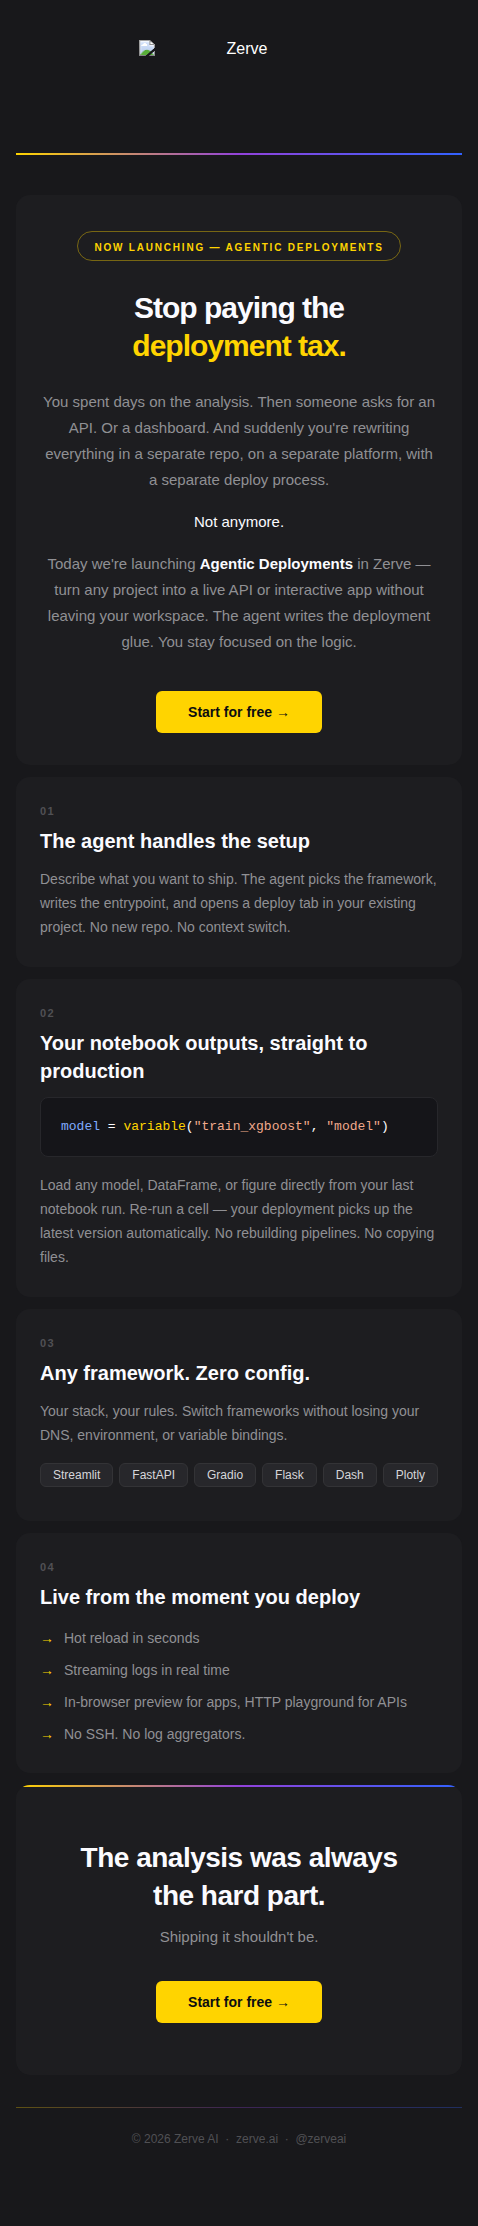
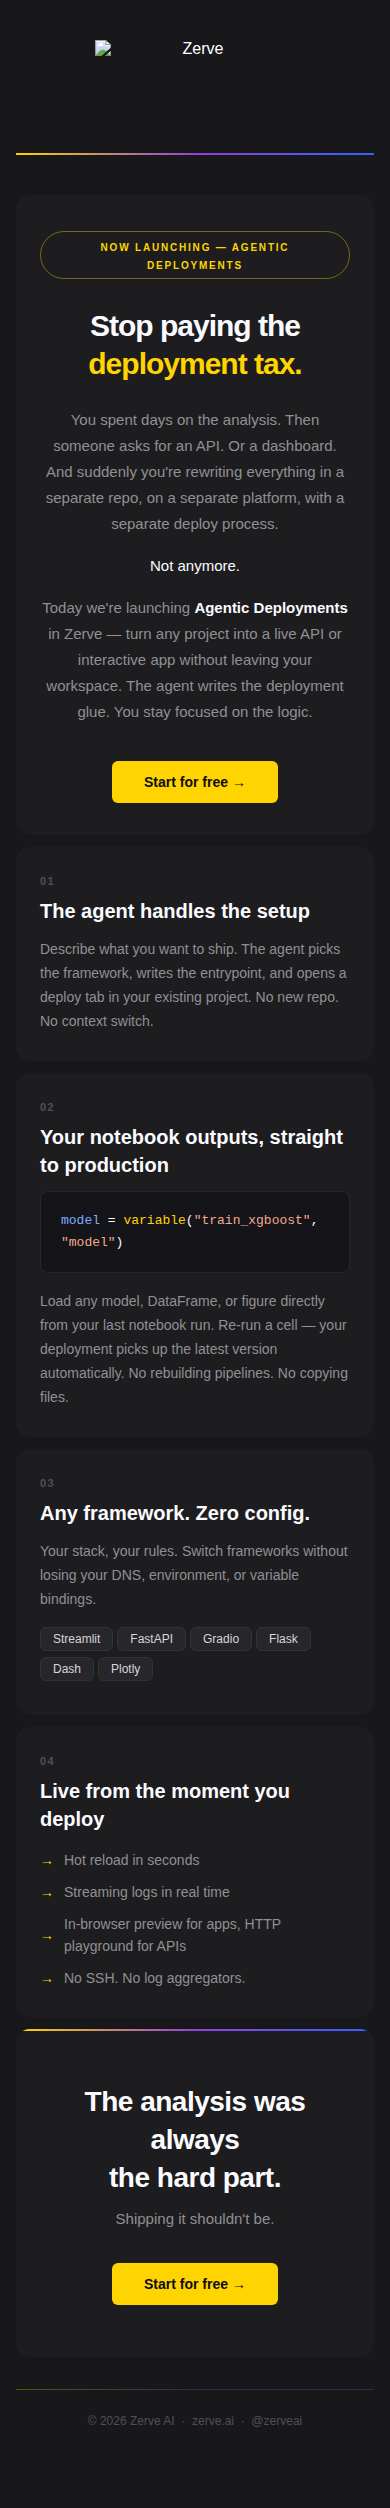
Fix pills layout and move style block to body for HubSpot
- Framework pills now use inline spans that wrap naturally on mobile
- Moved <style> block into <body> so HubSpot doesn't strip it

https://claude.ai/code/session_01UYnRHy9eQAXTU72oKrucmb

diff --git a/zerve-deployment-launch-v2.html b/zerve-deployment-launch-v2.html
@@ -16,37 +16,31 @@
     </xml>
   </noscript>
   <![endif]-->
-  <style>
-    /* Force dark mode colors — prevents Gmail Android from inverting */
-    :root { color-scheme: light dark; supported-color-schemes: light dark; }
+</head>
+<body class="body" style="margin:0;padding:0;background-color:#18181B;font-family:'IBM Plex Sans',Arial,sans-serif;-webkit-font-smoothing:antialiased;">
 
-    /* Gmail dark mode override (u + .body targets Gmail specifically) */
+  <!-- Style block in body so HubSpot doesn't strip it -->
+  <style>
+    :root { color-scheme: light dark; }
+    /* Gmail Android dark mode override */
     u + .body .outer-wrap { background-color: #18181B !important; }
     u + .body .card       { background-color: #1D1D20 !important; }
     u + .body .h1         { color: #FBFBFF !important; }
-    u + .body .h2         { color: #FBFBFF !important; }
-    u + .body .body-text  { color: #909094 !important; }
-    u + .body .accent     { color: #FFD400 !important; }
-
+    u + .body p           { color: #909094 !important; }
+    /* All clients dark mode */
     @media (prefers-color-scheme: dark) {
       .outer-wrap { background-color: #18181B !important; }
       .card       { background-color: #1D1D20 !important; }
       .h1         { color: #FBFBFF !important; }
-      .h2         { color: #FBFBFF !important; }
-      .body-text  { color: #909094 !important; }
-      .accent     { color: #FFD400 !important; }
     }
-
+    /* Mobile */
     @media only screen and (max-width: 600px) {
       .email-container { width: 100% !important; }
-      .hero-pad        { padding: 36px 24px 32px !important; }
-      .feat-pad        { padding: 28px 24px !important; }
-      .h1-size         { font-size: 30px !important; line-height: 38px !important; }
-      .h2-size         { font-size: 17px !important; }
+      .hero-pad  { padding: 36px 24px 32px !important; }
+      .feat-pad  { padding: 28px 24px !important; }
+      .h1-size   { font-size: 30px !important; line-height: 38px !important; }
     }
   </style>
-</head>
-<body class="body" style="margin:0;padding:0;background-color:#18181B;font-family:'IBM Plex Sans',Arial,sans-serif;-webkit-font-smoothing:antialiased;">
 
   <!-- Preheader -->
   <div style="display:none;max-height:0;overflow:hidden;mso-hide:all;font-size:1px;color:#18181B;">
@@ -172,17 +166,15 @@
               <p style="margin:0 0 16px;font-family:'IBM Plex Sans',Arial,sans-serif;font-size:14px;line-height:24px;color:#909094;">
                 Your stack, your rules. Switch frameworks without losing your DNS, environment, or variable bindings.
               </p>
-              <!-- Framework pills as table -->
-              <table role="presentation" cellpadding="0" cellspacing="0" border="0">
-                <tr>
-                  <td style="padding-right:6px;padding-bottom:6px;"><span style="display:inline-block;background-color:#27272B;border:1px solid #333336;border-radius:6px;padding:4px 12px;font-family:'IBM Plex Sans',Arial,sans-serif;font-size:12px;font-weight:500;color:#D6D6DA;">Streamlit</span></td>
-                  <td style="padding-right:6px;padding-bottom:6px;"><span style="display:inline-block;background-color:#27272B;border:1px solid #333336;border-radius:6px;padding:4px 12px;font-family:'IBM Plex Sans',Arial,sans-serif;font-size:12px;font-weight:500;color:#D6D6DA;">FastAPI</span></td>
-                  <td style="padding-right:6px;padding-bottom:6px;"><span style="display:inline-block;background-color:#27272B;border:1px solid #333336;border-radius:6px;padding:4px 12px;font-family:'IBM Plex Sans',Arial,sans-serif;font-size:12px;font-weight:500;color:#D6D6DA;">Gradio</span></td>
-                  <td style="padding-right:6px;padding-bottom:6px;"><span style="display:inline-block;background-color:#27272B;border:1px solid #333336;border-radius:6px;padding:4px 12px;font-family:'IBM Plex Sans',Arial,sans-serif;font-size:12px;font-weight:500;color:#D6D6DA;">Flask</span></td>
-                  <td style="padding-right:6px;padding-bottom:6px;"><span style="display:inline-block;background-color:#27272B;border:1px solid #333336;border-radius:6px;padding:4px 12px;font-family:'IBM Plex Sans',Arial,sans-serif;font-size:12px;font-weight:500;color:#D6D6DA;">Dash</span></td>
-                  <td style="padding-bottom:6px;"><span style="display:inline-block;background-color:#27272B;border:1px solid #333336;border-radius:6px;padding:4px 12px;font-family:'IBM Plex Sans',Arial,sans-serif;font-size:12px;font-weight:500;color:#D6D6DA;">Plotly</span></td>
-                </tr>
-              </table>
+              <!-- Framework pills — inline so they wrap naturally on mobile -->
+              <div>
+                <span style="display:inline-block;background-color:#27272B;border:1px solid #333336;border-radius:6px;padding:4px 12px;font-family:'IBM Plex Sans',Arial,sans-serif;font-size:12px;font-weight:500;color:#D6D6DA;margin:0 4px 6px 0;">Streamlit</span><!--
+                --><span style="display:inline-block;background-color:#27272B;border:1px solid #333336;border-radius:6px;padding:4px 12px;font-family:'IBM Plex Sans',Arial,sans-serif;font-size:12px;font-weight:500;color:#D6D6DA;margin:0 4px 6px 0;">FastAPI</span><!--
+                --><span style="display:inline-block;background-color:#27272B;border:1px solid #333336;border-radius:6px;padding:4px 12px;font-family:'IBM Plex Sans',Arial,sans-serif;font-size:12px;font-weight:500;color:#D6D6DA;margin:0 4px 6px 0;">Gradio</span><!--
+                --><span style="display:inline-block;background-color:#27272B;border:1px solid #333336;border-radius:6px;padding:4px 12px;font-family:'IBM Plex Sans',Arial,sans-serif;font-size:12px;font-weight:500;color:#D6D6DA;margin:0 4px 6px 0;">Flask</span><!--
+                --><span style="display:inline-block;background-color:#27272B;border:1px solid #333336;border-radius:6px;padding:4px 12px;font-family:'IBM Plex Sans',Arial,sans-serif;font-size:12px;font-weight:500;color:#D6D6DA;margin:0 4px 6px 0;">Dash</span><!--
+                --><span style="display:inline-block;background-color:#27272B;border:1px solid #333336;border-radius:6px;padding:4px 12px;font-family:'IBM Plex Sans',Arial,sans-serif;font-size:12px;font-weight:500;color:#D6D6DA;margin:0 4px 6px 0;">Plotly</span>
+              </div>
             </td>
           </tr>
 
